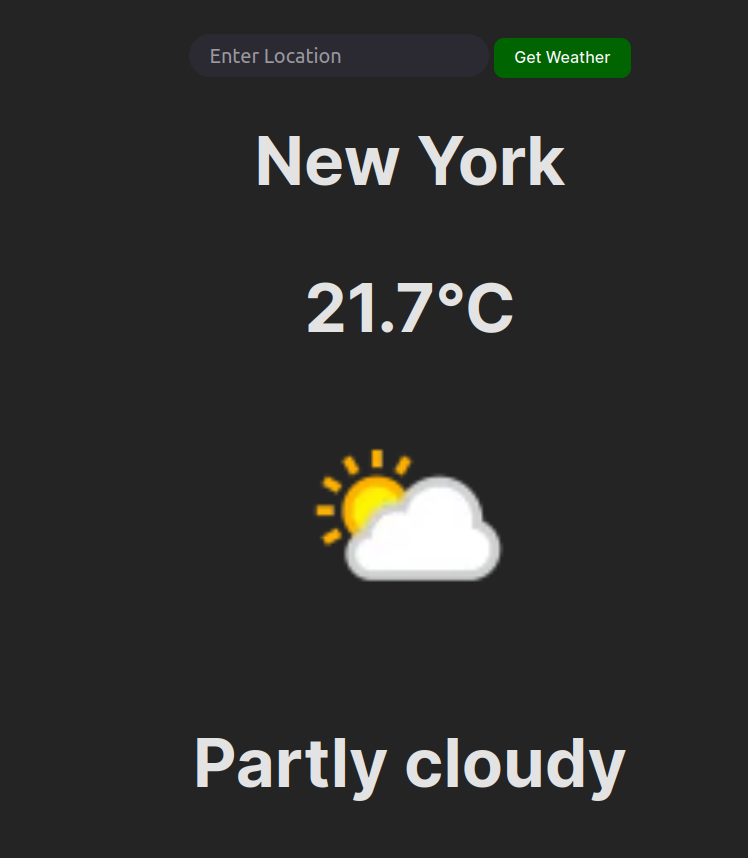
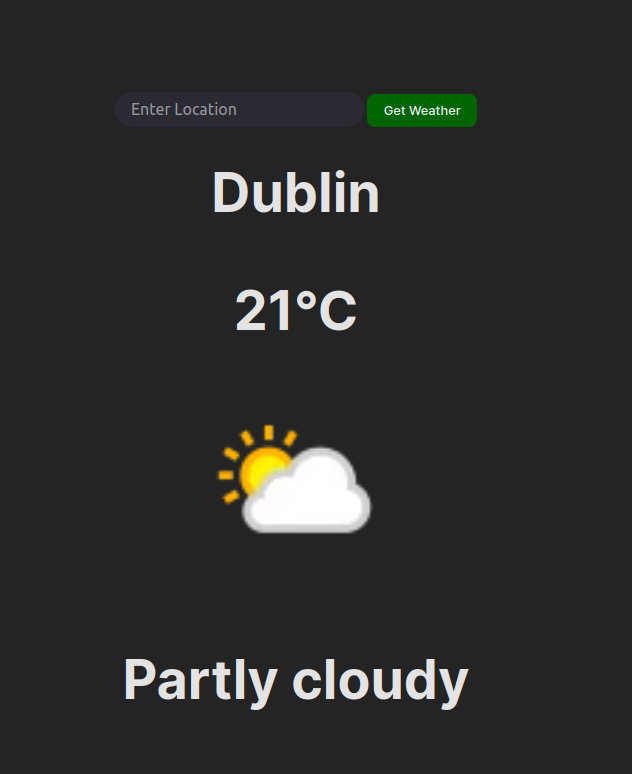
Upated weather app to user aysnc fetch and add input

diff --git a/weather-app/main.js b/weather-app/main.js
@@ -1,61 +1,71 @@
 
-
-//const city  = document.getElementById("cityInput").value;
-
-
- const city = document.getElementById("cityInput").value;
- const defaultCity ="Dublin";
-
+/* // function to get city name   */ 
+function getCity (){
+  const city=document.getElementById("cityInput").value;
+  fetchWeather(city)
  
-
-
-fetch(`https://api.weatherapi.com/v1/current.json?key=1499bed3ace74172a3b215054231109&q=${city}`, { mode: 'cors' })
-  .then(function (response) {
-    // Check if the response status is OK (200) before attempting to parse the JSON
-    if (!response.ok) {
-      throw new Error('Network response was not ok');
-    }
-    return response.json(); // This returns a Promise
-  })
-  .then(function (response) {
-    // Now you can work with the parsed JSON data
-
-    
-
-    
-    
-
-    console.log(response);
-    
-    const loc = response.location.name;
-    const temp_c = response.current.temp_c;
-    const imageIcon = response.current.condition.icon;
-    const imageText = response.current.condition.text;
-
-    const h1Element = document.createElement('h1');
-    h1Element.innerHTML += `
-    
-                          ${loc}
-                          <br />
-                          <br />
-                          ${temp_c}\u2103  
-                          <br />
-                          <br />
-                          <img src="${imageIcon}" alt="${imageText}">
-                          <br />
-                          <br />
-                          ${imageText}
-                          `;
-
-    const manDiv = document.getElementById('app');
-    manDiv.appendChild(h1Element)
-
-   
-  })
-  .catch(function (error) {
-    console.error('There was a problem with the fetch operation:', error);
-  });
-
+ }
+ 
+ async function fetchWeather(city){
+ 
+  /*  // connecting api */
+ const response = await fetch(`https://api.weatherapi.com/v1/current.json?key=1499bed3ace74172a3b215054231109&q=${city}`,{ mode: 'cors' });
+     /* // if the response is no a 200 throw network error */
+     if (!response.ok) {
+       throw new Error('Network response was not ok');
+     }
+     /*  getting weather data using the await promise */
+     const weatherData = await response.json();
+ 
+     console.log(weatherData);
+     
+ 
+     const loc = weatherData.location.name;
+     const temp_c = weatherData.current.temp_c;
+     const imageIcon = weatherData.current.condition.icon;
+     const imageText = weatherData.current.condition.text;
+     console.log(loc);
+ 
+     /* Creating H1 element to display the data */
+     const h1Element = document.createElement('h1');
+     h1Element.innerHTML = `
+                           
+                           ${loc}
+                           <br />
+                           <br />
+                           ${temp_c}\u2103  
+                           <br />
+                           <br />
+                           <img src="${imageIcon}" alt="${imageText}">
+                           <br />
+                           <br />
+                           ${imageText}
+                           
+                           `;
+ 
+     const manDiv = document.getElementById('app');
+     /* adding city input field  */
+     manDiv.innerHTML = `<input type="text" id="cityInput" placeholder="Enter Location">
+     <button onclick="getCity()">Get Weather</button>` 
+     /* Appending h1 to DOM */
+     manDiv.appendChild(h1Element);
+     
+ 
+   }
+ 
+     
+ 
+ 
+ 
+ 
+ 
+ 
+ 
+ 
+  
+ 
+ 
+ 
 
 
 

diff --git a/weather-app/index.html b/weather-app/index.html
@@ -10,7 +10,7 @@
   <body>
     <div id="app">
       <input type="text" id="cityInput" placeholder="Enter Location">
-      <button onclick="document.location.reload()">Get Weather</button>
+      <button onclick="getCity()">Get Weather</button>
       
       
      
